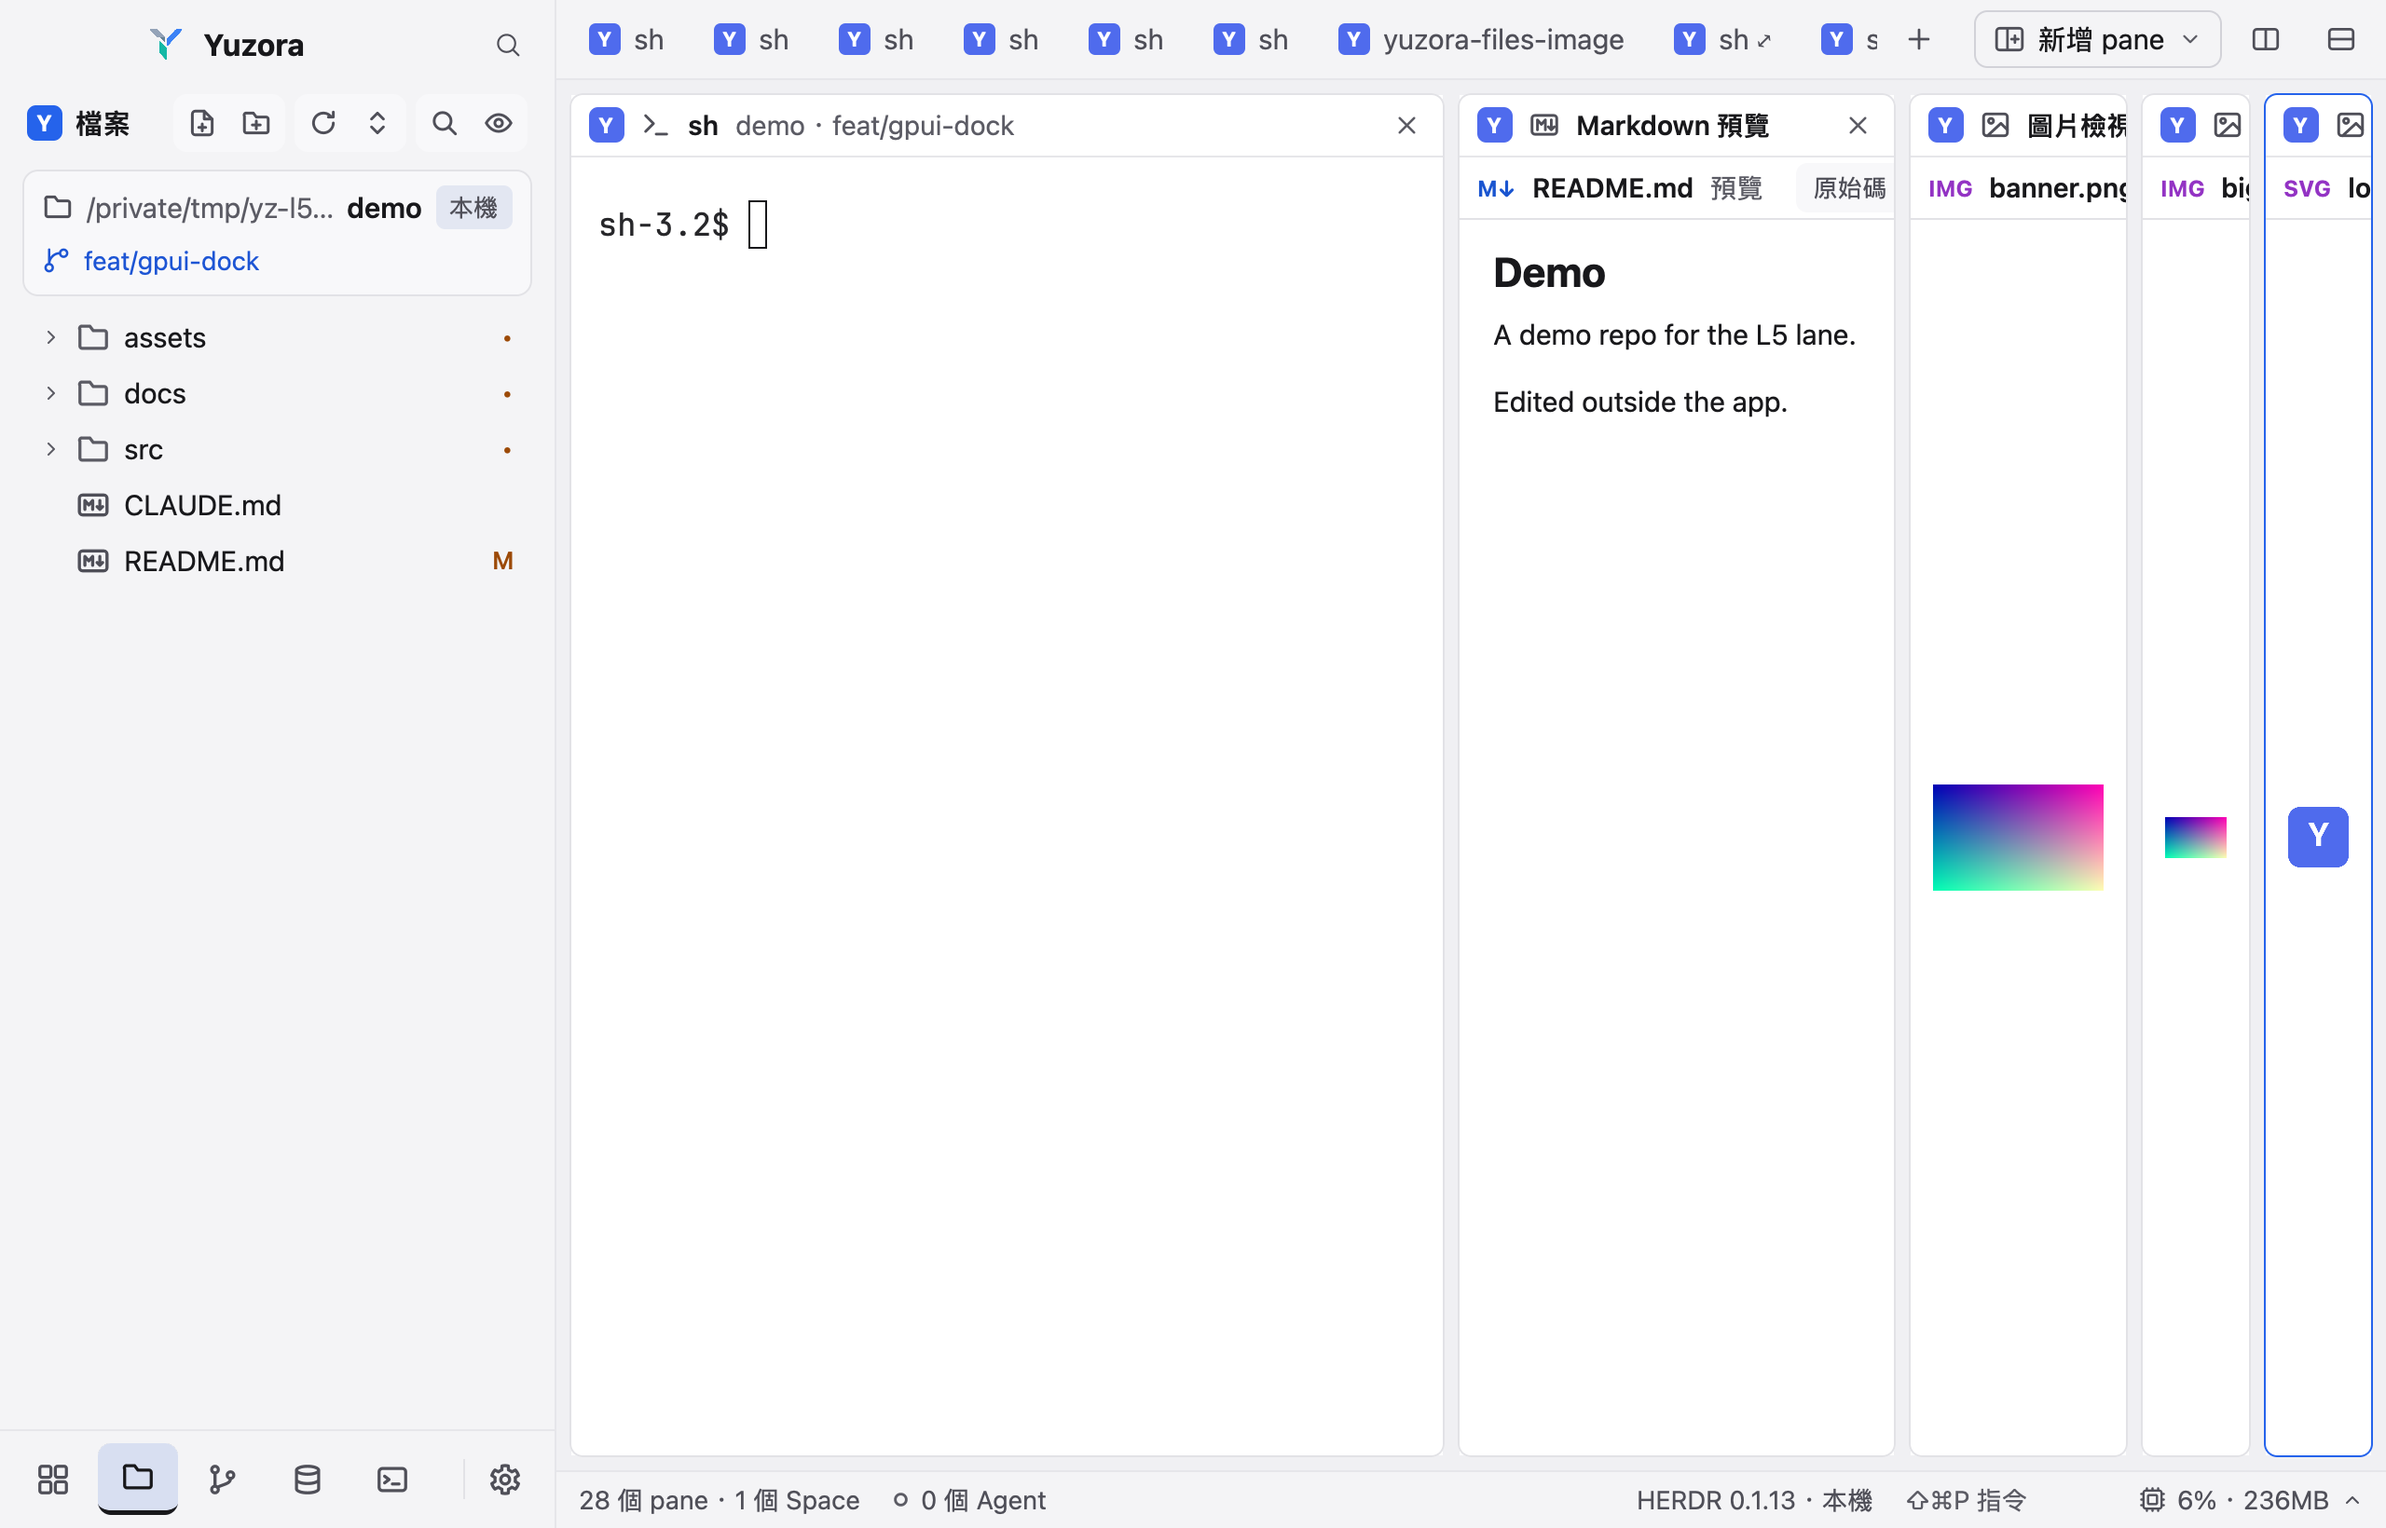
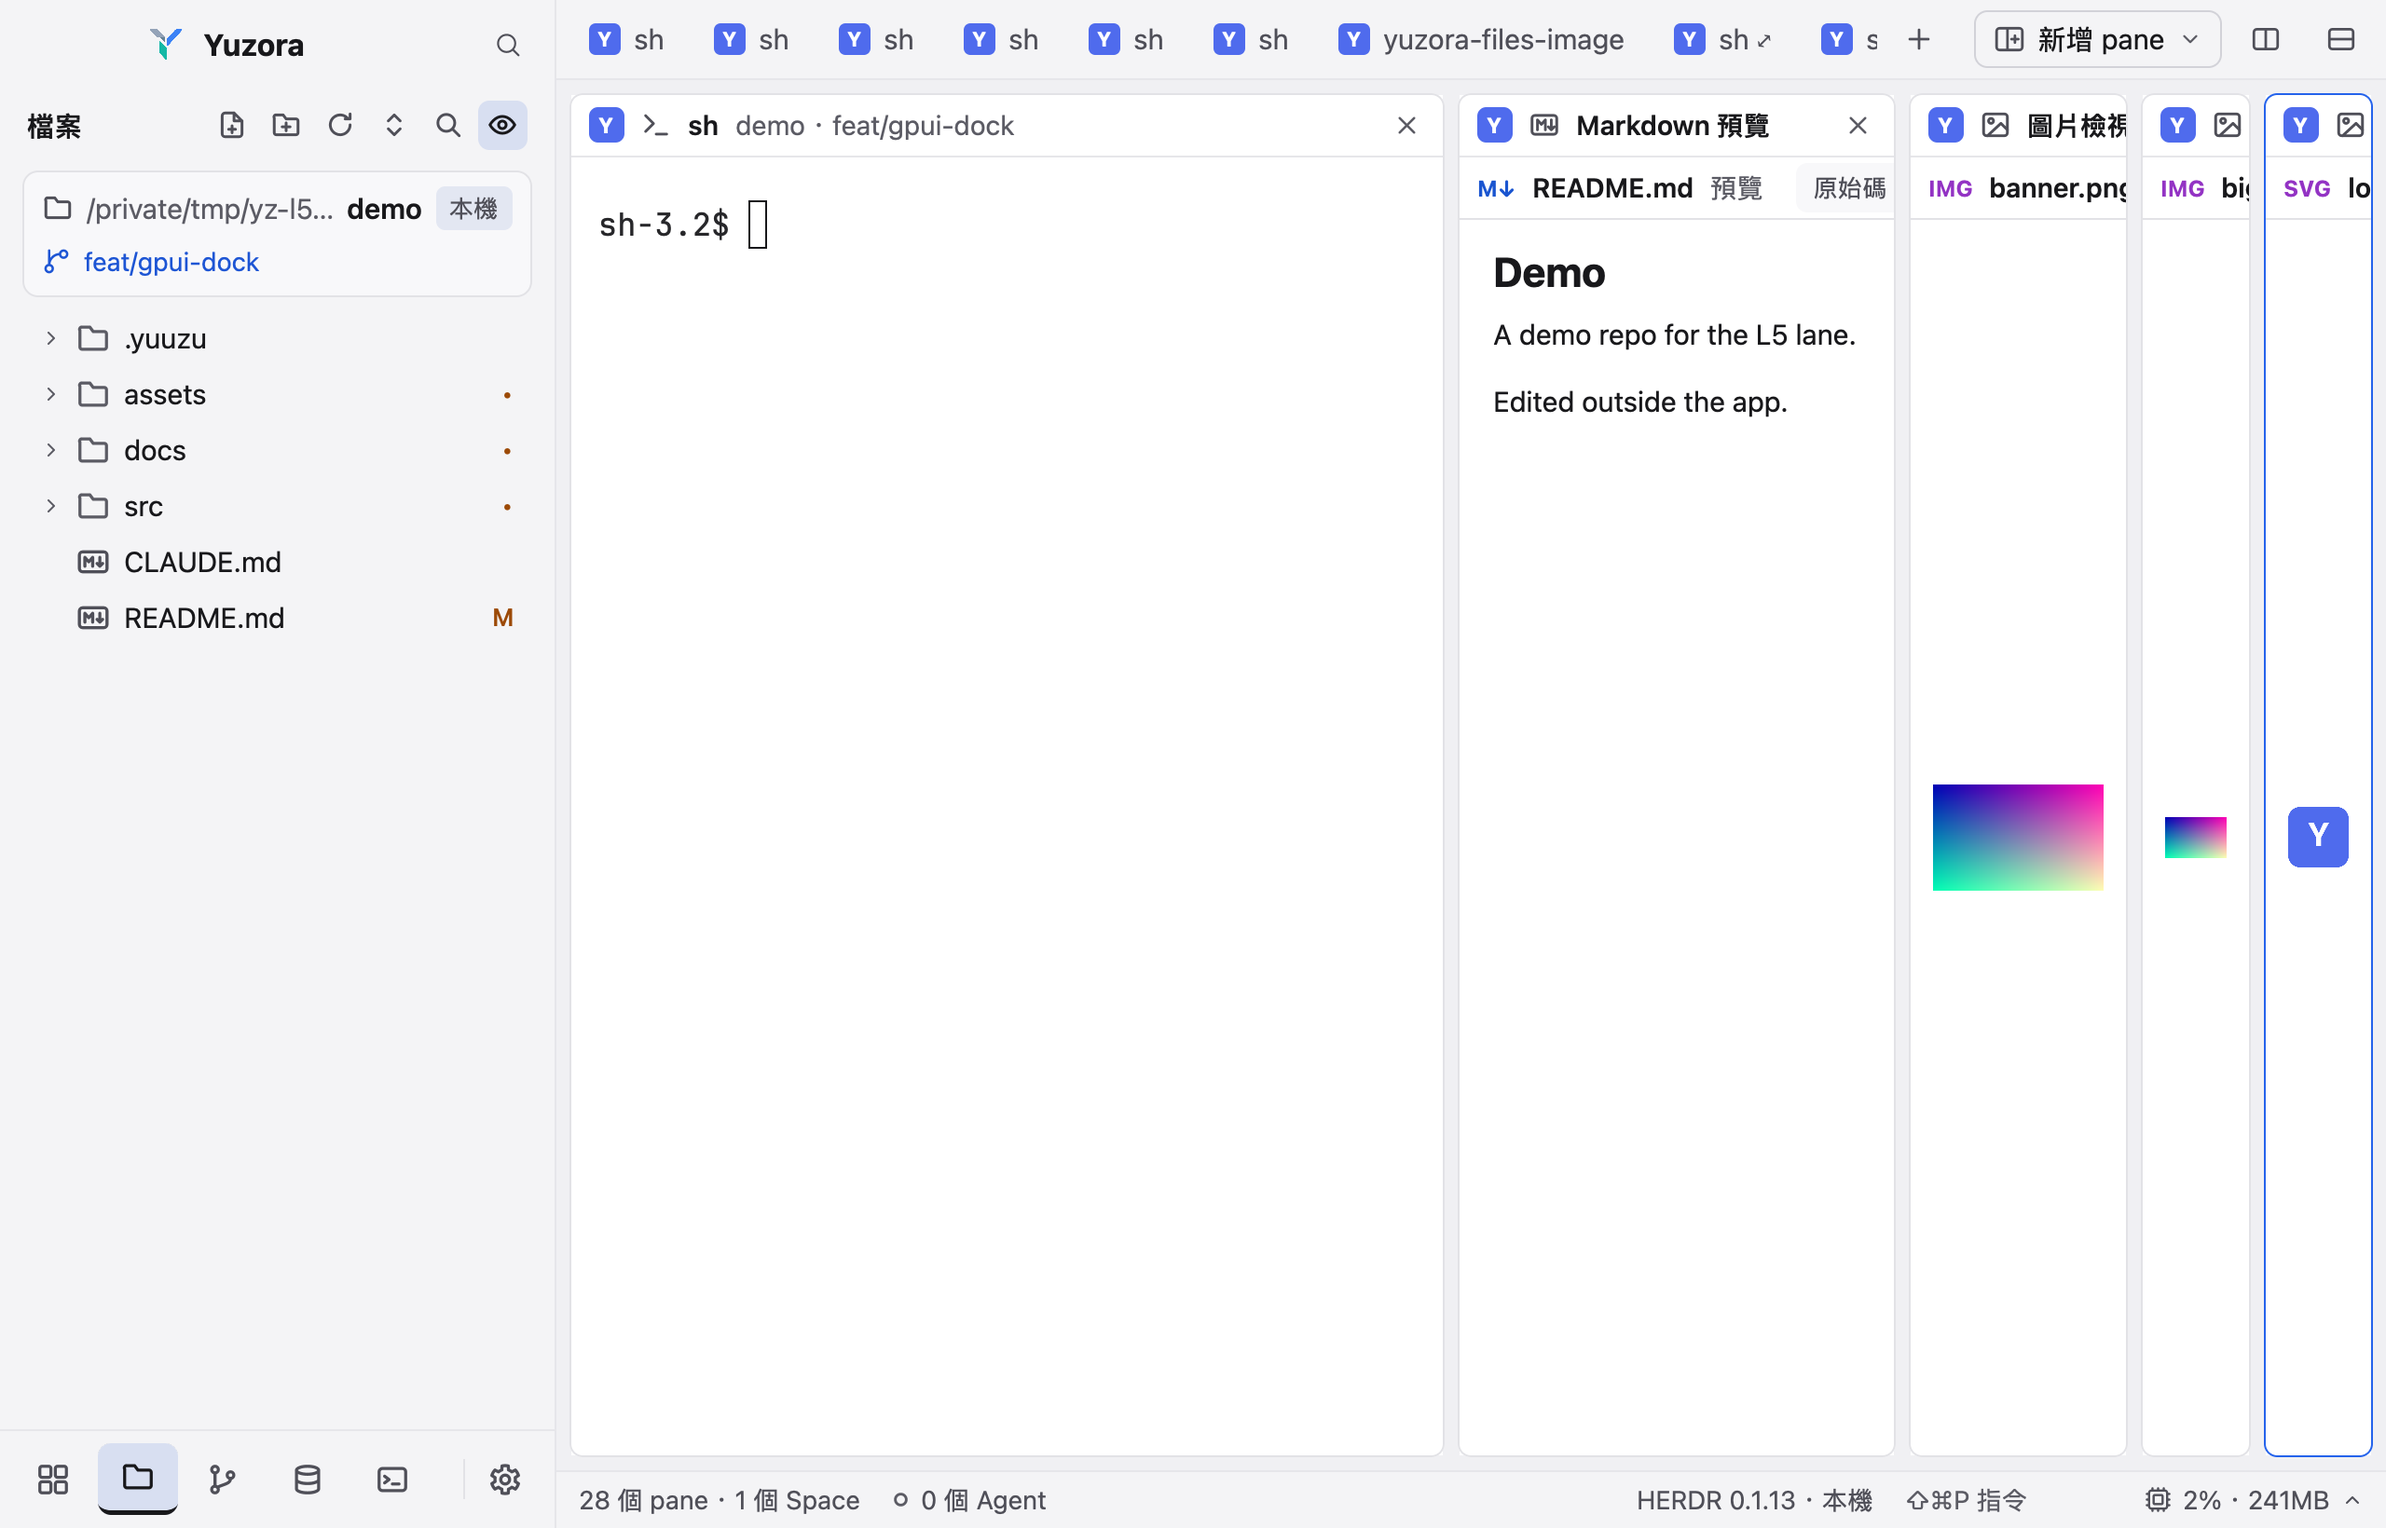
feat(yuzora-files): give the Files sidebar the other sidebars' title row
The title row is now written as yuzora-sidebar-database's: 32px high,
"Files" on the left (truncated first), and the six actions as 22px
ghost icon buttons two apart (new file, new folder, refresh, collapse,
search, hidden files). No Space badge and no raised pairs; search and
hidden files are on a selected background when on, and new file and
new folder stay disabled on another machine. The path card is
unchanged and sits 4px under the row.

Evidence l5-20 (dark) and l5-21 (light), retaken.

diff --git a/app/defaults/mods/yuzora-sidebar-files/main.js b/app/defaults/mods/yuzora-sidebar-files/main.js
@@ -322,43 +322,34 @@ export default class FilesSidebar extends View {
     this.requests(cx);
     if (where(this.here)?.key !== this.here?.key) this.relocate(cx);
     const th = theme(), tk = tokens(), here = this.here;
-    const space = spaces().find(s => s.id === here?.space) ?? spaces().find(s => s.active);
-    const badges = tk.space_badges ?? ["#4f6bed"];
-    const badgeBg = space ? badges[(space.index - 1) % badges.length] : badges[0];
     const local = !here?.on;
-    // Icon buttons in pairs on a raised strip: no background until hovered; a toggle that's on is selected.
+    // Ghost icon buttons, as on the other sidebars' title rows; a toggle that's on is selected.
     const action = (id, icon, label, onClick, on = false, enabled = true) =>
-      div().id(id).w(24).h(24).flex().items_center().justify_center().rounded(5).flex_none()
+      div().id(id).size(22).flex().flex_none().items_center().justify_center().rounded(5)
         .bg(on ? th.selected : "#00000000").text_color(enabled ? (on ? th.foreground : th.muted) : th.dim)
         .when(enabled, el => el.cursor_pointer().hover(s => s.bg(on ? th.selected : th.hover).text_color(th.foreground)).on_click(onClick))
         .tooltip(label)
         .child(svg(`mods/${ME}/icons/${icon}.svg`).size(14));
-    const pair = (a, b) => h_flex().flex_none().p(1).rounded(6).bg(th.raised).child(a).child(b);
     // New files and folders: off on another machine (read-only there), which the tooltip says.
     const canAdd = local && Boolean(here?.root);
     const addTip = label => (local ? label : t("remote.readonly"));
     // The folder above (shrinks first) and the folder's own name; "~" only on this machine.
     const head = here?.root ? heading(here.root, local ? home() : null, here.branch) : null;
     return v_flex().id("root").size_full().min_h(0).bg(th.chrome).text_color(th.foreground).text_size(12.5)
-      .child(h_flex().flex_none().pt(2).px(12).gap(6).items_center()
-        .child(div().w(16).h(16).flex_none().rounded(4).bg(badgeBg).text_color(tk.text.on_badge).text_size(10).font_bold().flex().items_center().justify_center()
-          .child((space?.name ?? "?").slice(0, 1).toUpperCase()))
+      .child(h_flex().h(32).px(12).flex_none().items_center()
         .child(div().flex_1().min_w(0).truncate().font_semibold().child(t("title")))
-        .child(h_flex().flex_none().gap(4)
-          .child(pair(
-            action("new-file", "new-file", addTip(t("action.new_file")), (_e, cx) => this.startEdit("new-file", null, this.selectedDir(), cx), false, canAdd),
-            action("new-folder", "new-folder", addTip(t("action.new_folder")), (_e, cx) => this.startEdit("new-folder", null, this.selectedDir(), cx), false, canAdd)))
-          .child(pair(
-            action("refresh", "refresh", t("action.refresh"), (_e, cx) => { this.reload(cx); cx.notify(); }),
-            action("collapse", "collapse", t("action.collapse"), (_e, cx) => this.collapse(cx))))
-          .child(pair(
-            action("search", "search", t("action.search"), (_e, cx) => this.toggleSearch(cx), this.searching),
-            action("hidden", "eye", t("action.hidden"), (_e, cx) => {
-              this.hidden = !this.hidden; localStorage.setItem("hidden", this.hidden ? "1" : "0"); this.version++;
-              if (this.searching) this.search(cx);
-              cx.notify();
-            }, this.hidden)))))
-      .when(Boolean(head), el => el.child(v_flex().flex_none().mt(8).mx(10).mb(6).py(6).px(8).gap(4).rounded(7)
+        .child(h_flex().flex_none().gap(2)
+          .child(action("new-file", "new-file", addTip(t("action.new_file")), (_e, cx) => this.startEdit("new-file", null, this.selectedDir(), cx), false, canAdd))
+          .child(action("new-folder", "new-folder", addTip(t("action.new_folder")), (_e, cx) => this.startEdit("new-folder", null, this.selectedDir(), cx), false, canAdd))
+          .child(action("refresh", "refresh", t("action.refresh"), (_e, cx) => { this.reload(cx); cx.notify(); }))
+          .child(action("collapse", "collapse", t("action.collapse"), (_e, cx) => this.collapse(cx)))
+          .child(action("search", "search", t("action.search"), (_e, cx) => this.toggleSearch(cx), this.searching))
+          .child(action("hidden", "eye", t("action.hidden"), (_e, cx) => {
+            this.hidden = !this.hidden; localStorage.setItem("hidden", this.hidden ? "1" : "0"); this.version++;
+            if (this.searching) this.search(cx);
+            cx.notify();
+          }, this.hidden))))
+      .when(Boolean(head), el => el.child(v_flex().flex_none().mt(4).mx(10).mb(6).py(6).px(8).gap(4).rounded(7)
         .bg(th.raised).border_1().border_color(th.border)
         .child(h_flex().gap(6).items_center().min_w(0)
           .child(svg(`mods/${ME}/icons/files/folder.svg`).size(14).flex_none().text_color(th.muted))
